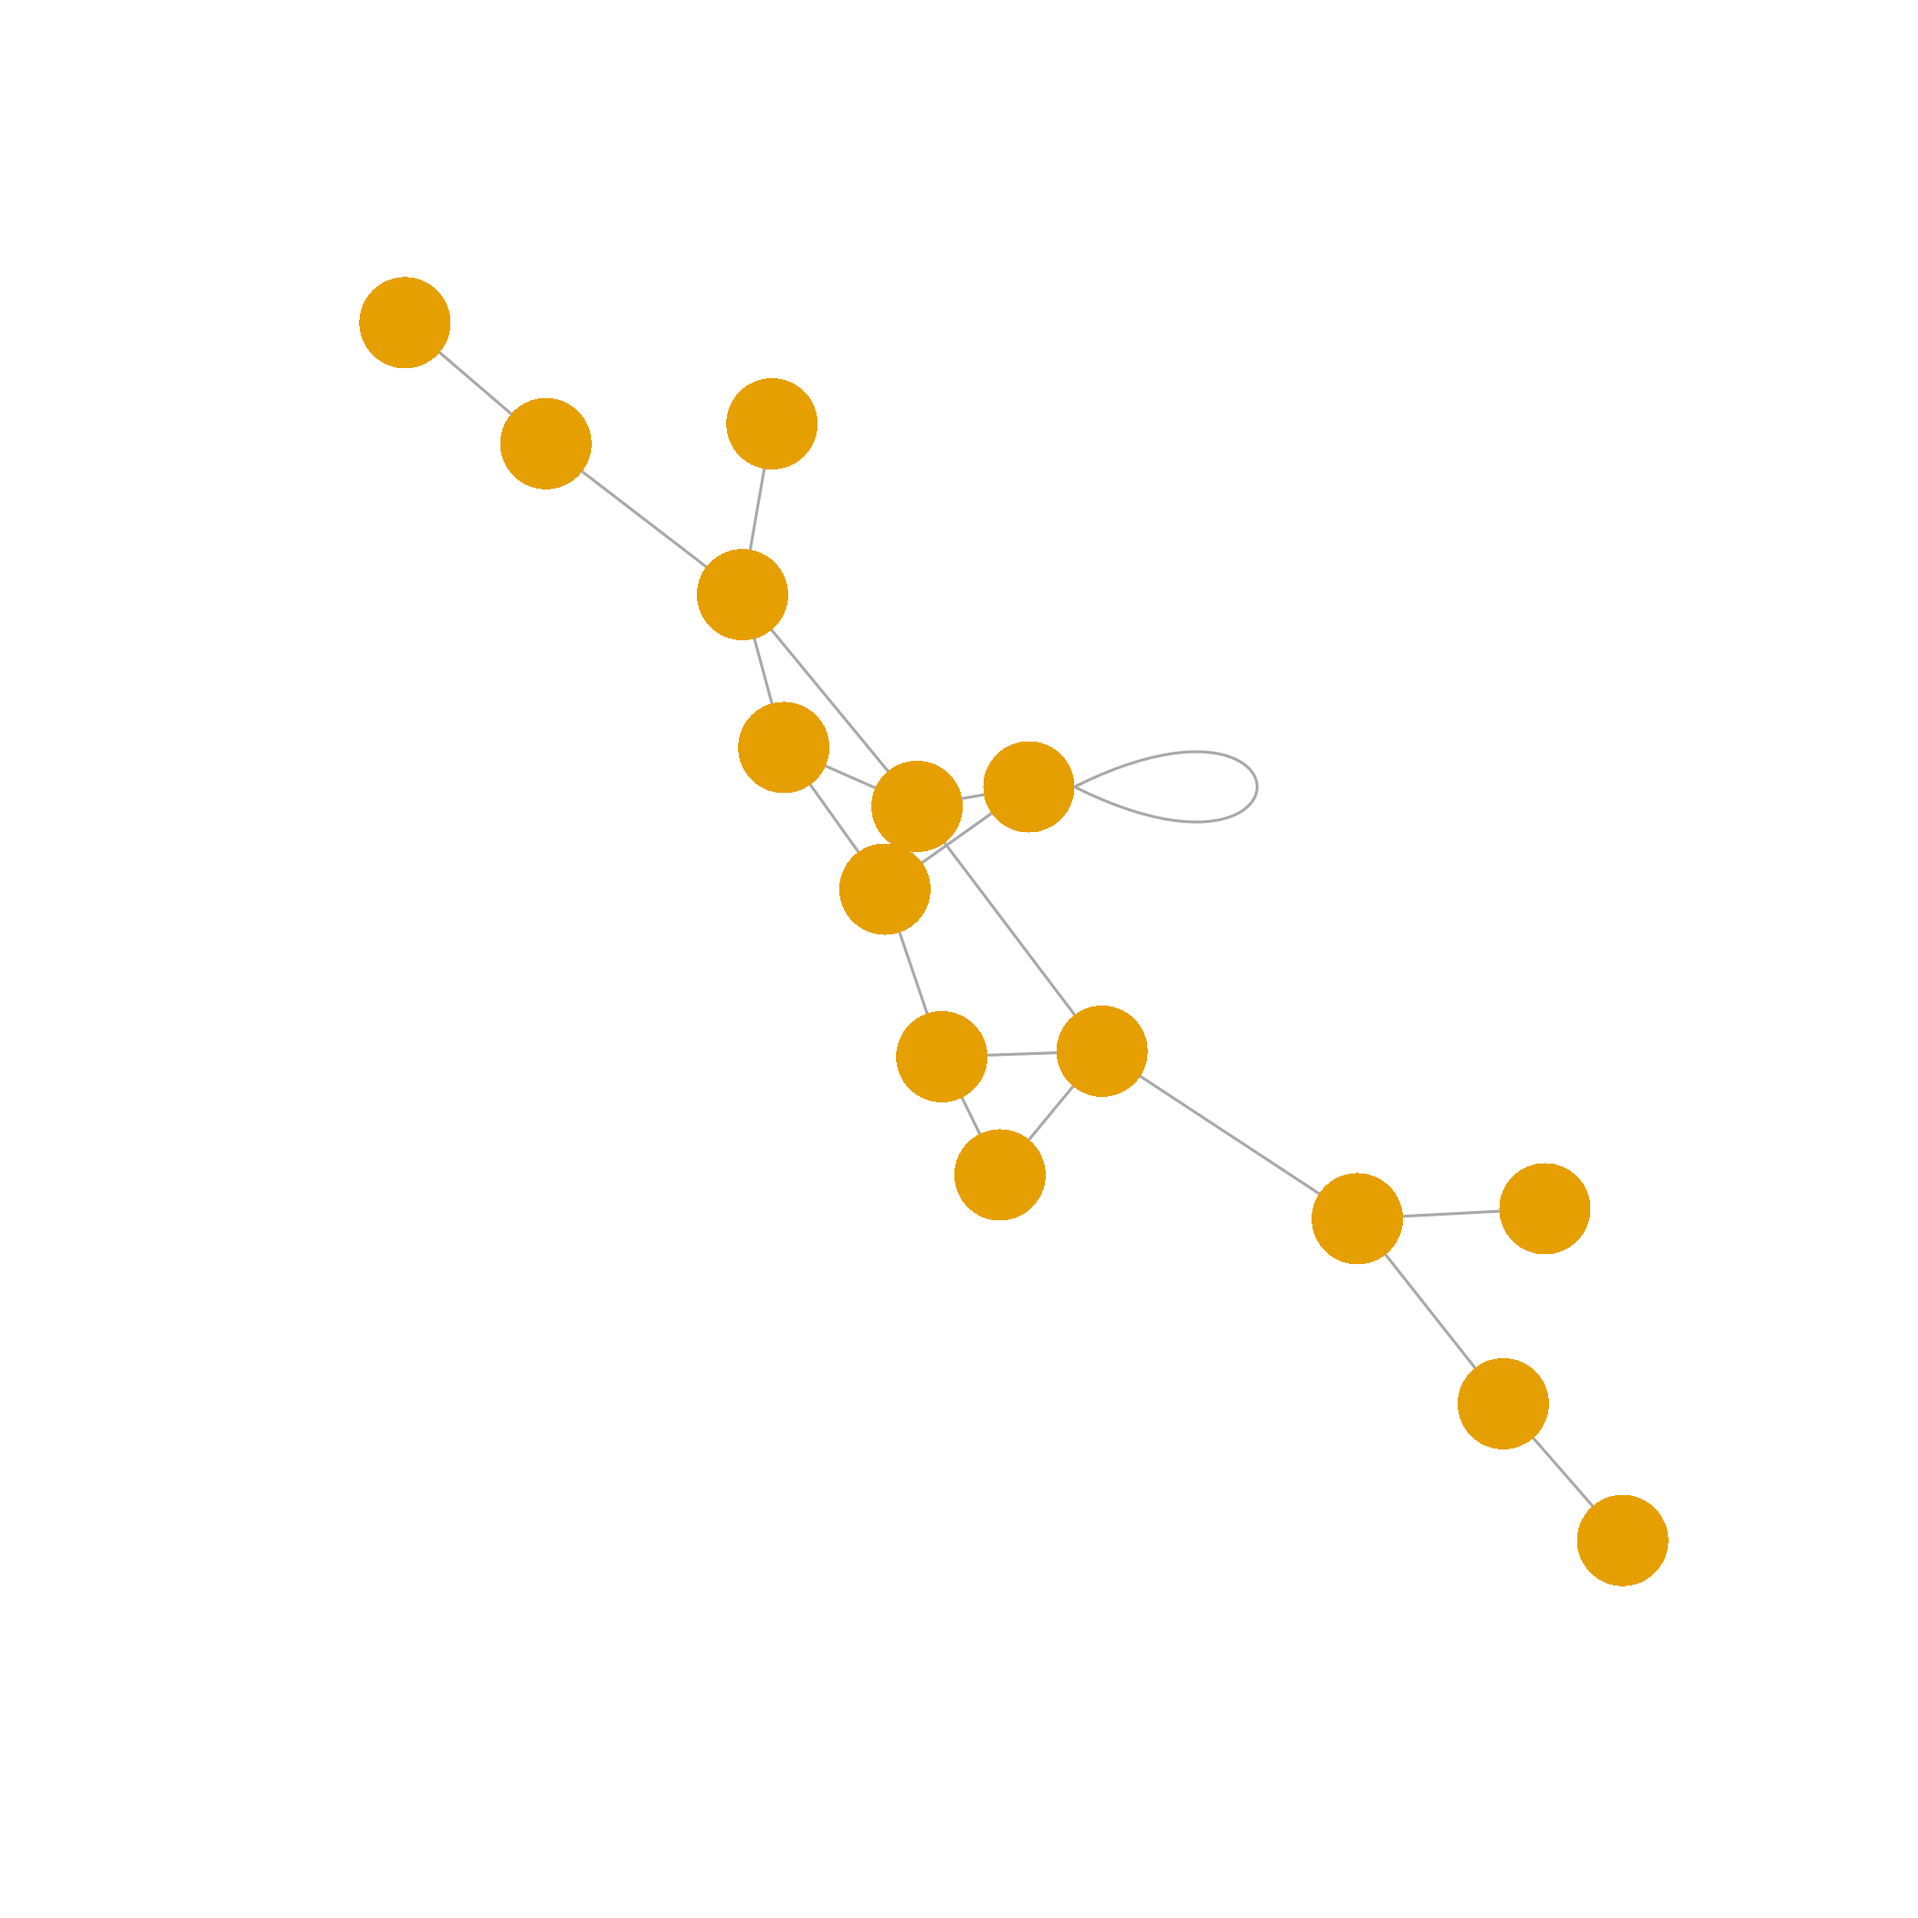
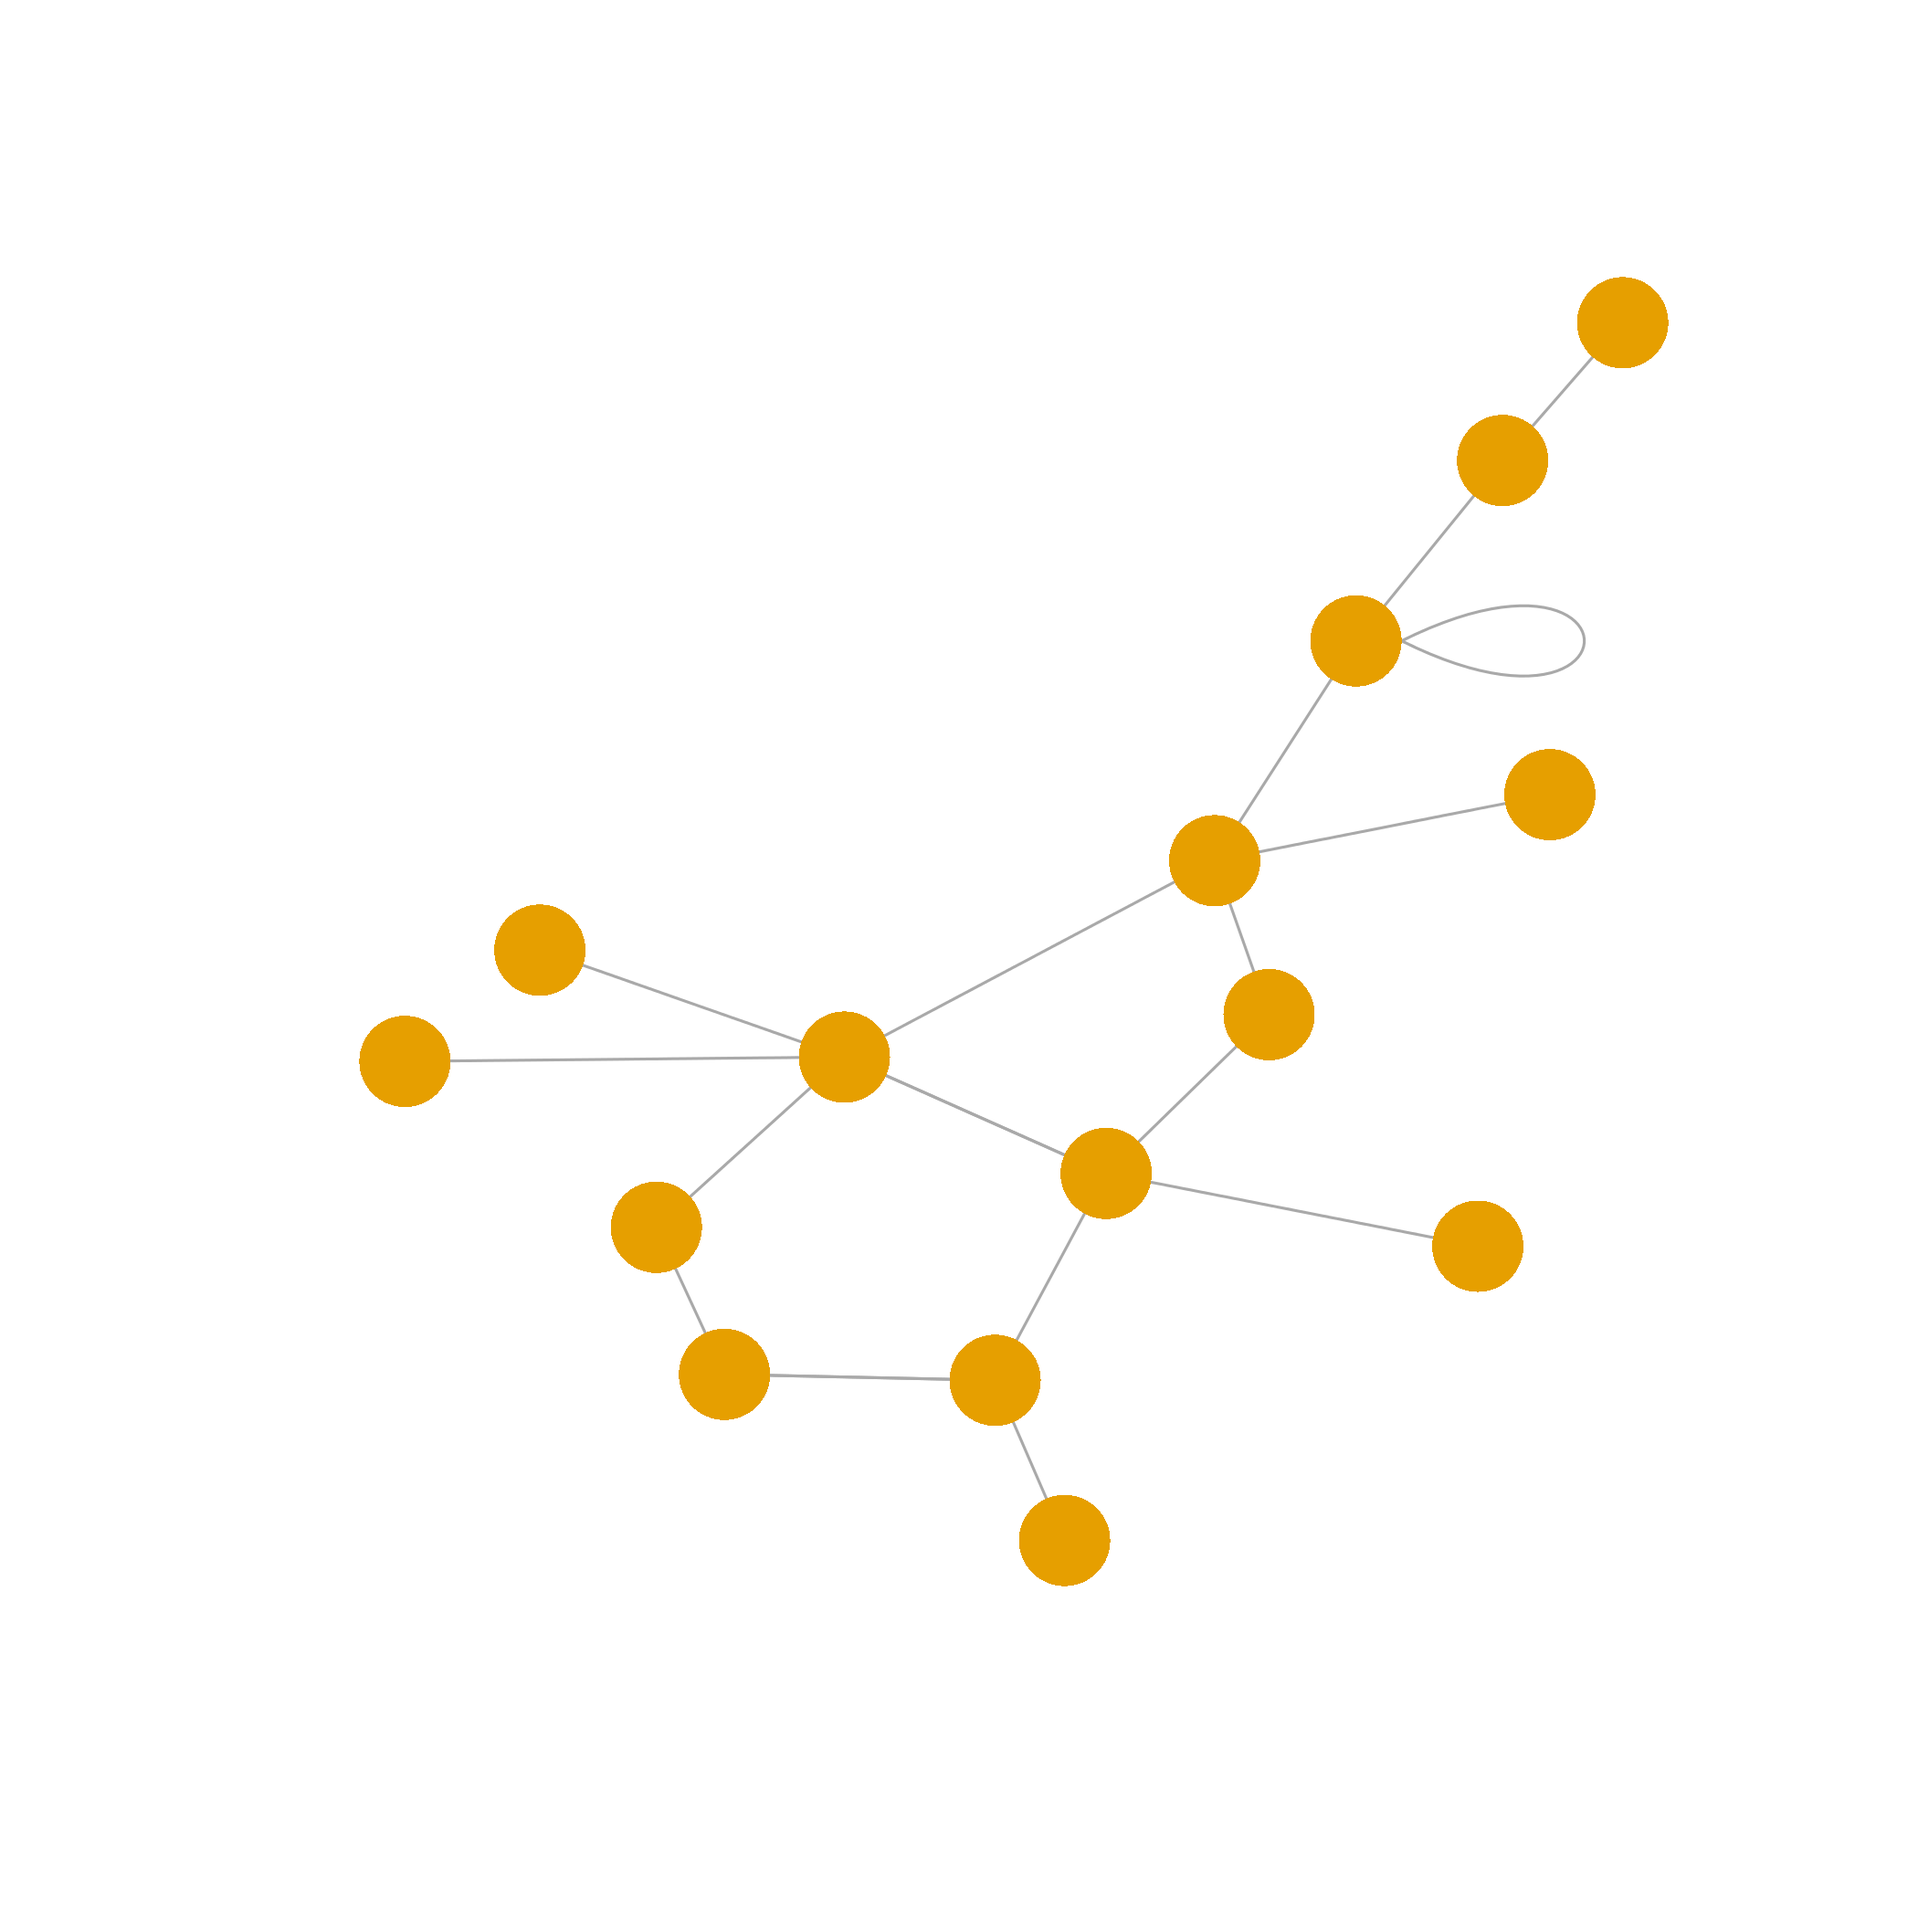
Update the slides

diff --git a/cours5/index.html b/cours5/index.html
@@ -946,7 +946,7 @@ L[runif(S*S) &lt; C] = 1
 sum(L)
 </code></pre>
 
-<pre><code>## [1] 20
+<pre><code>## [1] 19
 </code></pre>
 
 <pre><code class="r">g &lt;- graph.adjacency(L)
@@ -1122,7 +1122,7 @@ plot(g, vertex.label=NA, edge.arrow.mode = 0,
 modularity(wtc)
 </code></pre>
 
-<pre><code>## [1] 0.4375
+<pre><code>## [1] 0.4279779
 </code></pre>
 
   </article>
@@ -1140,37 +1140,37 @@ modularity(wtc)
 </code></pre>
 
 <pre><code>##       [,1] [,2] [,3] [,4] [,5] [,6] [,7] [,8] [,9] [,10] [,11] [,12] [,13]
-##  [1,]    0    3    4    2    1    2    3    2    1     1     1     2     2
-##  [2,]    3    0    3    3    4    2    2    5    4     2     4     3     1
-##  [3,]    4    3    0    4    5    3    1    6    5     3     5     4     2
-##  [4,]    2    3    4    0    3    2    3    4    2     1     3     1     2
-##  [5,]    1    4    5    3    0    3    4    1    2     2     2     3     3
-##  [6,]    2    2    3    2    3    0    2    4    2     1     3     1     1
-##  [7,]    3    2    1    3    4    2    0    5    4     2     4     3     1
-##  [8,]    2    5    6    4    1    4    5    0    3     3     3     4     4
-##  [9,]    1    4    5    2    2    2    4    3    0     2     1     1     3
-## [10,]    1    2    3    1    2    1    2    3    2     0     2     1     1
-## [11,]    1    4    5    3    2    3    4    3    1     2     0     2     3
-## [12,]    2    3    4    1    3    1    3    4    1     1     2     0     2
-## [13,]    2    1    2    2    3    1    1    4    3     1     3     2     0
-## [14,]    2    5    6    4    1    4    5    2    3     3     3     4     4
-## [15,]    3    6    7    5    2    5    6    1    4     4     4     5     5
+##  [1,]    0    3    3    2    2    1    2    3    5     4     3     2     4
+##  [2,]    3    0    3    1    3    2    2    3    6     2     4     3     5
+##  [3,]    3    3    0    3    3    2    1    2    6     3     4     3     5
+##  [4,]    2    1    3    0    2    1    2    3    5     3     3     2     4
+##  [5,]    2    3    3    2    0    1    2    1    3     4     1     2     2
+##  [6,]    1    2    2    1    1    0    1    2    4     3     2     1     3
+##  [7,]    2    2    1    2    2    1    0    1    5     2     3     2     4
+##  [8,]    3    3    2    3    1    2    1    0    4     3     2     3     3
+##  [9,]    5    6    6    5    3    4    5    4    0     7     2     5     1
+## [10,]    4    2    3    3    4    3    2    3    7     0     5     4     6
+## [11,]    3    4    4    3    1    2    3    2    2     5     0     3     1
+## [12,]    2    3    3    2    2    1    2    3    5     4     3     0     4
+## [13,]    4    5    5    4    2    3    4    3    1     6     1     4     0
+## [14,]    3    1    2    2    3    2    1    2    6     1     4     3     5
+## [15,]    3    4    4    3    1    2    3    2    4     5     2     3     3
 ##       [,14] [,15]
-##  [1,]     2     3
-##  [2,]     5     6
-##  [3,]     6     7
-##  [4,]     4     5
-##  [5,]     1     2
-##  [6,]     4     5
-##  [7,]     5     6
-##  [8,]     2     1
-##  [9,]     3     4
-## [10,]     3     4
-## [11,]     3     4
-## [12,]     4     5
-## [13,]     4     5
-## [14,]     0     3
-## [15,]     3     0
+##  [1,]     3     3
+##  [2,]     1     4
+##  [3,]     2     4
+##  [4,]     2     3
+##  [5,]     3     1
+##  [6,]     2     2
+##  [7,]     1     3
+##  [8,]     2     2
+##  [9,]     6     4
+## [10,]     1     5
+## [11,]     4     2
+## [12,]     3     3
+## [13,]     5     3
+## [14,]     0     4
+## [15,]     4     0
 </code></pre>
 
   </article>
@@ -1187,9 +1187,9 @@ modularity(wtc)
 <pre><code class="r">eigen_centrality(g)$vector
 </code></pre>
 
-<pre><code>##  [1] 0.57984025 0.17072205 0.05358685 0.74778656 0.20189347 0.70324181
-##  [7] 0.18614821 0.06337105 0.50114946 1.00000000 0.31118664 0.84984926
-## [13] 0.59304853 0.05811947 0.01824275
+<pre><code>##  [1] 0.28958290 0.47150321 0.27756515 0.42612217 0.53095503 1.00000000
+##  [7] 0.95849977 0.43132064 0.02274078 0.17405276 0.24844036 0.28958290
+## [13] 0.07852942 0.60104638 0.15375550
 </code></pre>
 
   </article>

diff --git a/cours6/index.html b/cours6/index.html
@@ -1427,9 +1427,18 @@ article \cite{gravel2006a}.
 <h2>Rappel, la compilation se déroule en trois étapes:</h2>
 
 <ol>
-<li><code>pdflatex monfichier.tex</code> scanne le fichier <code>.tex</code> à la recherche de références aux figures, tableaux et sections etc.</li>
-<li><code>bibtex monfichier.tex</code> scanne le fichier <code>.tex</code> à la recherche des balises <code>\cite{}</code></li>
-<li><code>pdflatex monfichier.tex</code> compile le document final en se servant des <code>.aux</code> (étape 1) et <code>.bbl</code> (étape 2)</li>
+<li><p>Scanner le fichier <code>.tex</code> à la recherche de références aux figures, sections etc.</p>
+
+<pre><code class="bash">pdflatex monfichier.tex
+</code></pre></li>
+<li><p>Scanner le fichier <code>.tex</code> à la recherche des balises <code>\cite{}</code></p>
+
+<pre><code class="bash">bibtex monfichier.tex
+</code></pre></li>
+<li><p>Compiler le document final en se servant des <code>.aux</code> (étape 1) et <code>.bbl</code> (étape 2)</p>
+
+<pre><code class="bash">pdflatex monfichier.tex
+</code></pre></li>
 </ol>
 
   </article>

diff --git a/cours5/index.md b/cours5/index.md
@@ -668,7 +668,7 @@ sum(L)
 ```
 
 ```
-## [1] 20
+## [1] 19
 ```
 
 ```r
@@ -810,7 +810,7 @@ modularity(wtc)
 ```
 
 ```
-## [1] 0.4375
+## [1] 0.4279779
 ```
 
 ---
@@ -826,37 +826,37 @@ distances(g)
 
 ```
 ##       [,1] [,2] [,3] [,4] [,5] [,6] [,7] [,8] [,9] [,10] [,11] [,12] [,13]
-##  [1,]    0    3    4    2    1    2    3    2    1     1     1     2     2
-##  [2,]    3    0    3    3    4    2    2    5    4     2     4     3     1
-##  [3,]    4    3    0    4    5    3    1    6    5     3     5     4     2
-##  [4,]    2    3    4    0    3    2    3    4    2     1     3     1     2
-##  [5,]    1    4    5    3    0    3    4    1    2     2     2     3     3
-##  [6,]    2    2    3    2    3    0    2    4    2     1     3     1     1
-##  [7,]    3    2    1    3    4    2    0    5    4     2     4     3     1
-##  [8,]    2    5    6    4    1    4    5    0    3     3     3     4     4
-##  [9,]    1    4    5    2    2    2    4    3    0     2     1     1     3
-## [10,]    1    2    3    1    2    1    2    3    2     0     2     1     1
-## [11,]    1    4    5    3    2    3    4    3    1     2     0     2     3
-## [12,]    2    3    4    1    3    1    3    4    1     1     2     0     2
-## [13,]    2    1    2    2    3    1    1    4    3     1     3     2     0
-## [14,]    2    5    6    4    1    4    5    2    3     3     3     4     4
-## [15,]    3    6    7    5    2    5    6    1    4     4     4     5     5
+##  [1,]    0    3    3    2    2    1    2    3    5     4     3     2     4
+##  [2,]    3    0    3    1    3    2    2    3    6     2     4     3     5
+##  [3,]    3    3    0    3    3    2    1    2    6     3     4     3     5
+##  [4,]    2    1    3    0    2    1    2    3    5     3     3     2     4
+##  [5,]    2    3    3    2    0    1    2    1    3     4     1     2     2
+##  [6,]    1    2    2    1    1    0    1    2    4     3     2     1     3
+##  [7,]    2    2    1    2    2    1    0    1    5     2     3     2     4
+##  [8,]    3    3    2    3    1    2    1    0    4     3     2     3     3
+##  [9,]    5    6    6    5    3    4    5    4    0     7     2     5     1
+## [10,]    4    2    3    3    4    3    2    3    7     0     5     4     6
+## [11,]    3    4    4    3    1    2    3    2    2     5     0     3     1
+## [12,]    2    3    3    2    2    1    2    3    5     4     3     0     4
+## [13,]    4    5    5    4    2    3    4    3    1     6     1     4     0
+## [14,]    3    1    2    2    3    2    1    2    6     1     4     3     5
+## [15,]    3    4    4    3    1    2    3    2    4     5     2     3     3
 ##       [,14] [,15]
-##  [1,]     2     3
-##  [2,]     5     6
-##  [3,]     6     7
-##  [4,]     4     5
-##  [5,]     1     2
-##  [6,]     4     5
-##  [7,]     5     6
-##  [8,]     2     1
-##  [9,]     3     4
-## [10,]     3     4
-## [11,]     3     4
-## [12,]     4     5
-## [13,]     4     5
-## [14,]     0     3
-## [15,]     3     0
+##  [1,]     3     3
+##  [2,]     1     4
+##  [3,]     2     4
+##  [4,]     2     3
+##  [5,]     3     1
+##  [6,]     2     2
+##  [7,]     1     3
+##  [8,]     2     2
+##  [9,]     6     4
+## [10,]     1     5
+## [11,]     4     2
+## [12,]     3     3
+## [13,]     5     3
+## [14,]     0     4
+## [15,]     4     0
 ```
 
 ---
@@ -871,9 +871,9 @@ eigen_centrality(g)$vector
 ```
 
 ```
-##  [1] 0.57984025 0.17072205 0.05358685 0.74778656 0.20189347 0.70324181
-##  [7] 0.18614821 0.06337105 0.50114946 1.00000000 0.31118664 0.84984926
-## [13] 0.59304853 0.05811947 0.01824275
+##  [1] 0.28958290 0.47150321 0.27756515 0.42612217 0.53095503 1.00000000
+##  [7] 0.95849977 0.43132064 0.02274078 0.17405276 0.24844036 0.28958290
+## [13] 0.07852942 0.60104638 0.15375550
 ```
 
 --- .transition

diff --git a/cours6/index.md b/cours6/index.md
@@ -1134,10 +1134,23 @@ Et voilà, nous avons un document final.
 
 ## Rappel, la compilation se déroule en trois étapes:
 
-1. `pdflatex monfichier.tex` scanne le fichier `.tex` à la recherche de références aux figures, tableaux et sections etc.
-2. `bibtex monfichier.tex` scanne le fichier `.tex` à la recherche des balises `\cite{}`
-3. `pdflatex monfichier.tex` compile le document final en se servant des `.aux` (étape 1) et `.bbl` (étape 2)
+1. Scanner le fichier `.tex` à la recherche de références aux figures, sections etc.
 
+  ```bash
+  pdflatex monfichier.tex
+  ```
+
+2. Scanner le fichier `.tex` à la recherche des balises `\cite{}`
+
+  ```bash
+  bibtex monfichier.tex
+  ```
+
+3. Compiler le document final en se servant des `.aux` (étape 1) et `.bbl` (étape 2)
+
+  ```bash
+  pdflatex monfichier.tex
+  ```
 
 ---.transition
 

diff --git a/cours3/index.md b/cours3/index.md
@@ -540,7 +540,7 @@ con <- dbConnect(PostgreSQL(), host="localhost",
 ```
 
 ```
-## Error in eval(expr, envir, enclos): could not find function "dbConnect"
+## Error in dbConnect(PostgreSQL(), host = "localhost", port = 5432, user = "postgres", : could not find function "dbConnect"
 ```
 
 
